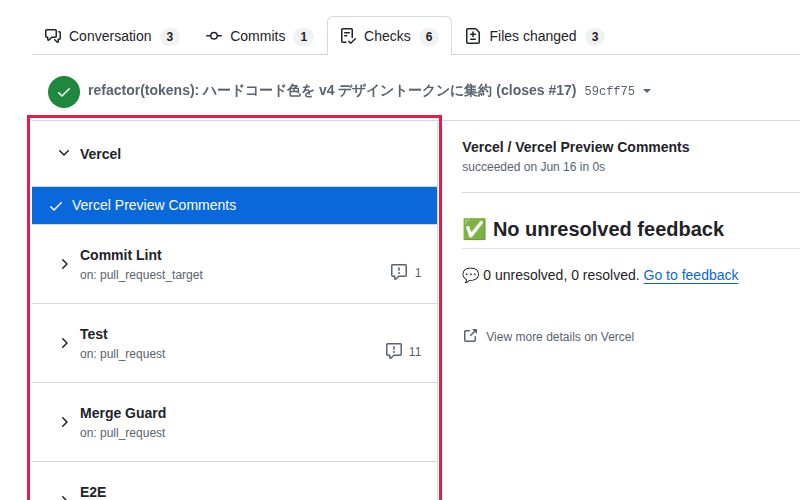
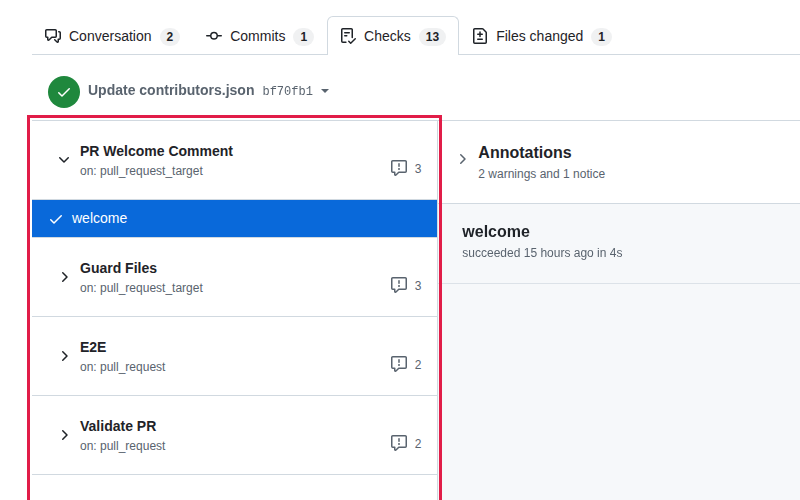
docs: チュートリアルの Step 5・7 の案内を正確にし、Step 8 の画像を今の画面に撮り直す (#80)
- Step 5: ブランチ名は半角の英数字とハイフン（-）だけ。全角の文字（全角のハイフンを含む）、空白、! などの記号は避ける
- Step 7: PR のタイトルの形（Add <yourname> to contributors）はおすすめで、CI では検査しないと書く
- PR テンプレート: 「変更内容」を任意にする（チュートリアルの「書かなくてもかまわない」とそろえる）
- Step 8: Vercel と Commit Lint が写った古い画像を撮り直す。撮影スクリプトに scrollToTop を足し、
  縦に長いチェックの一覧でも固定ヘッダー（アカウント名を含む）が重ならないようにする

diff --git a/app/tutorial/page.tsx b/app/tutorial/page.tsx
@@ -140,7 +140,7 @@ export default function TutorialPage() {
                 コマンドラインで操作したい方へ
               </summary>
               <div className="mt-3 space-y-2 text-ink-2">
-                <p>作業用ブランチを作成してから編集します。<code className="bg-slate-100 px-1 rounded">&lt;yourname&gt;</code> は半角英数字のハンドル名に置き換えてください（ひらがな・漢字・空白は不可）。</p>
+                <p>作業用ブランチを作成してから編集します。<code className="bg-slate-100 px-1 rounded">&lt;yourname&gt;</code> は自分の名前（ニックネームでもかまいません）に置き換えてください。ブランチ名には、半角の英数字とハイフン（-）だけを使います。</p>
                 <CodeBlock code="git switch -c add-<yourname>" />
                 <p className="mt-2">例: <code className="bg-slate-100 px-1 rounded">git switch -c add-oginochihiro</code></p>
                 <p>その後、お好きなエディタで <code className="bg-slate-100 px-1 rounded">data/contributors.json</code> を開きます。</p>
@@ -265,7 +265,7 @@ export default function TutorialPage() {
             </figure>
 
             <div className="bg-bg-2 rounded-lg border border-line p-4 text-sm space-y-2 mb-3">
-              <p><strong className="text-ink">Commit message:</strong> <code className="bg-white px-1.5 py-0.5 rounded">Add &lt;yourname&gt; to contributors</code>（<code className="bg-white px-1 rounded">&lt;yourname&gt;</code> は自分のハンドル名に置換）</p>
+              <p><strong className="text-ink">Commit message:</strong> <code className="bg-white px-1.5 py-0.5 rounded">Add &lt;yourname&gt; to contributors</code>（<code className="bg-white px-1 rounded">&lt;yourname&gt;</code> は自分の名前に置換。この形はおすすめで、違っていてもかまいません）</p>
               <p><strong className="text-ink">選択:</strong> 「Create a new branch for this commit and start a pull request」を選ぶ</p>
               <p><strong className="text-ink">ブランチ名:</strong> <code className="bg-white px-1.5 py-0.5 rounded">add-&lt;yourname&gt;</code> のように設定（例: <code className="bg-white px-1 rounded">add-oginochihiro</code>）</p>
             </div>
@@ -280,7 +280,7 @@ export default function TutorialPage() {
 
             <div className="bg-paper border-l-4 border-accent rounded-lg p-4 text-sm mb-3">
               <p className="text-ink-2">
-                <strong>ブランチ名の注意:</strong> 半角英数字とハイフンのみ使用してください。ひらがな・漢字・空白は使えません。
+                <strong>ブランチ名の注意:</strong> 半角の英数字とハイフン（<code className="bg-white px-1 rounded">-</code>）だけにしてください。全角の文字（ひらがな・漢字・全角のハイフン「－」）、空白、<code className="bg-white px-1 rounded">!</code> などの記号は避けます。
               </p>
             </div>
 
@@ -365,8 +365,8 @@ export default function TutorialPage() {
             </figure>
 
             <div className="bg-bg-2 rounded-lg border border-line p-4 text-sm space-y-2 mb-3">
-              <p><strong className="text-ink">Title:</strong> <code className="bg-white px-1.5 py-0.5 rounded">Add &lt;yourname&gt; to contributors</code>（コミットメッセージが自動入力されます）</p>
-              <p><strong className="text-ink">Description:</strong> テンプレートが入っています。「チェックリスト」の項目を確かめて、当てはまるものの <code className="bg-white px-1.5 py-0.5 rounded">[ ]</code> を <code className="bg-white px-1.5 py-0.5 rounded">[x]</code> に書き換えてください（PR を作ったあとでも、チェックボックスをクリックすれば付けられます）。「変更内容」は空欄でもOKです</p>
+              <p><strong className="text-ink">Title:</strong> コミットメッセージが自動で入ります。そのままで大丈夫です（<code className="bg-white px-1.5 py-0.5 rounded">Add &lt;yourname&gt; to contributors</code> の形はおすすめですが、違っていてもかまいません。CI ではタイトルを検査しません）</p>
+              <p><strong className="text-ink">Description:</strong> テンプレートが入っています。「チェックリスト」の項目を確かめて、当てはまるものの <code className="bg-white px-1.5 py-0.5 rounded">[ ]</code> を <code className="bg-white px-1.5 py-0.5 rounded">[x]</code> に書き換えてください（PR を作ったあとでも、チェックボックスをクリックすれば付けられます）。「変更内容」は書かなくてもかまいません</p>
             </div>
             <p>
               内容を確認して「<strong>Create pull request</strong>」をクリックしてください。

diff --git a/scripts/capture-tutorial-images.ts b/scripts/capture-tutorial-images.ts
@@ -139,6 +139,11 @@ interface ShotDefinition {
   mask?: string[];
   /** extendTop: 切り出し範囲を上に広げる量（px）。見出しやタブを一緒に写したいときに使う */
   clip?: { minHeight?: number; maxHeight?: number; extendTop?: number };
+  /**
+   * true なら、要素を画面の中央に合わせず、ページのいちばん上で撮る。
+   * 縦に長い要素を中央に合わせると下にスクロールし、GitHub の固定ヘッダー（PR のタイトルの帯）が上に重なるため
+   */
+  scrollToTop?: boolean;
 }
 
 interface ShotResult {
@@ -358,9 +363,13 @@ async function capture(page: Page, shot: ShotDefinition, ctx: CaptureContext, ou
   const highlight = await requireVisible(page, shot.highlight, `${shot.file} の強調対象`);
   const clipTarget = shot.clipTarget ? await requireVisible(page, shot.clipTarget, `${shot.file} の切り出し基準`) : highlight;
 
-  await highlight.evaluate((el) => el.scrollIntoView({ block: 'center', inline: 'center' }));
-  if (clipTarget !== highlight) {
-    await clipTarget.evaluate((el) => el.scrollIntoView({ block: 'center', inline: 'center' }));
+  if (shot.scrollToTop) {
+    await page.evaluate(() => window.scrollTo(0, 0));
+  } else {
+    await highlight.evaluate((el) => el.scrollIntoView({ block: 'center', inline: 'center' }));
+    if (clipTarget !== highlight) {
+      await clipTarget.evaluate((el) => el.scrollIntoView({ block: 'center', inline: 'center' }));
+    }
   }
   await page.waitForTimeout(300);
 
@@ -827,6 +836,8 @@ export const SHOTS: ShotDefinition[] = [
     highlight: CHECKS_LIST,
     // 「Checks」タブも一緒に写す
     clip: { extendTop: 110 },
+    // チェックの一覧は縦に長いので、中央に合わせると固定ヘッダー（アカウント名を含む）が重なる
+    scrollToTop: true,
   },
 ];
 

diff --git a/.github/PULL_REQUEST_TEMPLATE.md b/.github/PULL_REQUEST_TEMPLATE.md
@@ -12,7 +12,7 @@
 
 ## 変更内容
 
-<!-- 何を変更したかを 1〜2 文で記入してください -->
+<!-- （任意）何を変更したかを書いてください。contributors.json への追加だけなら空欄でかまいません -->
 
 ## チェックリスト
 
